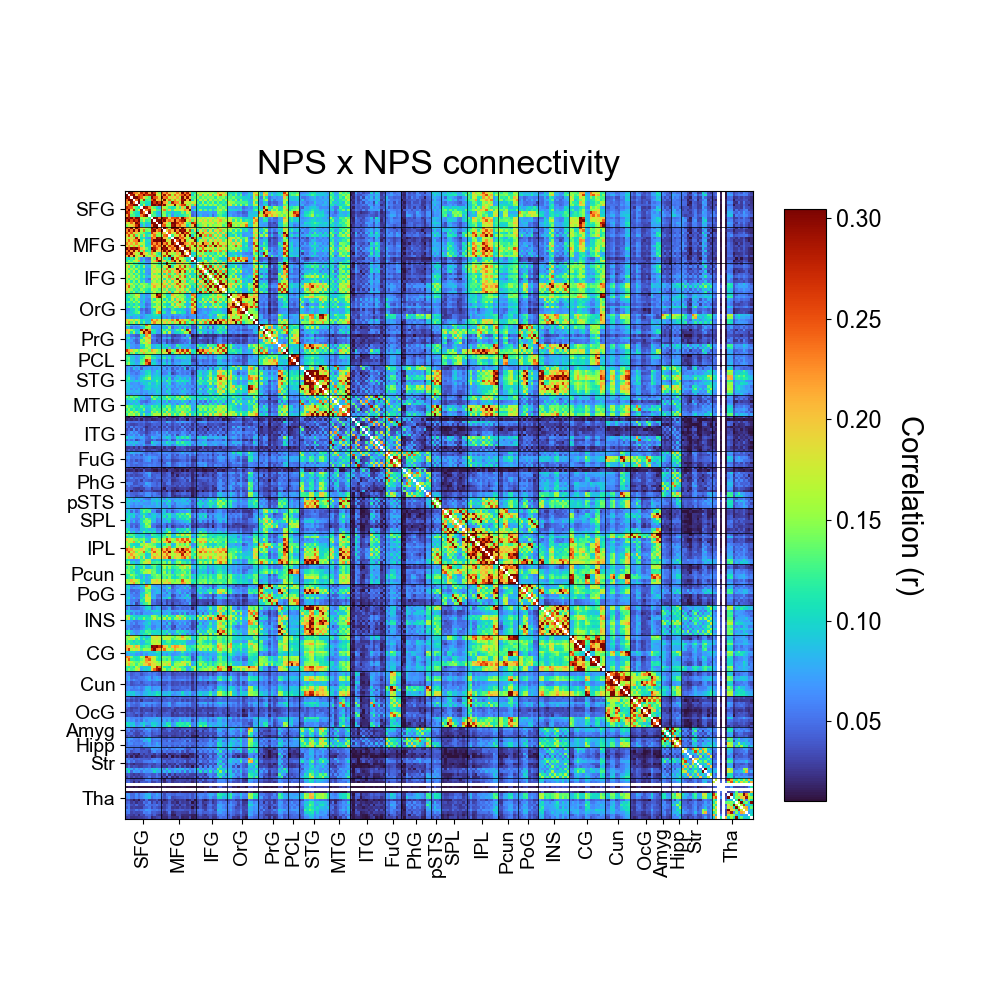
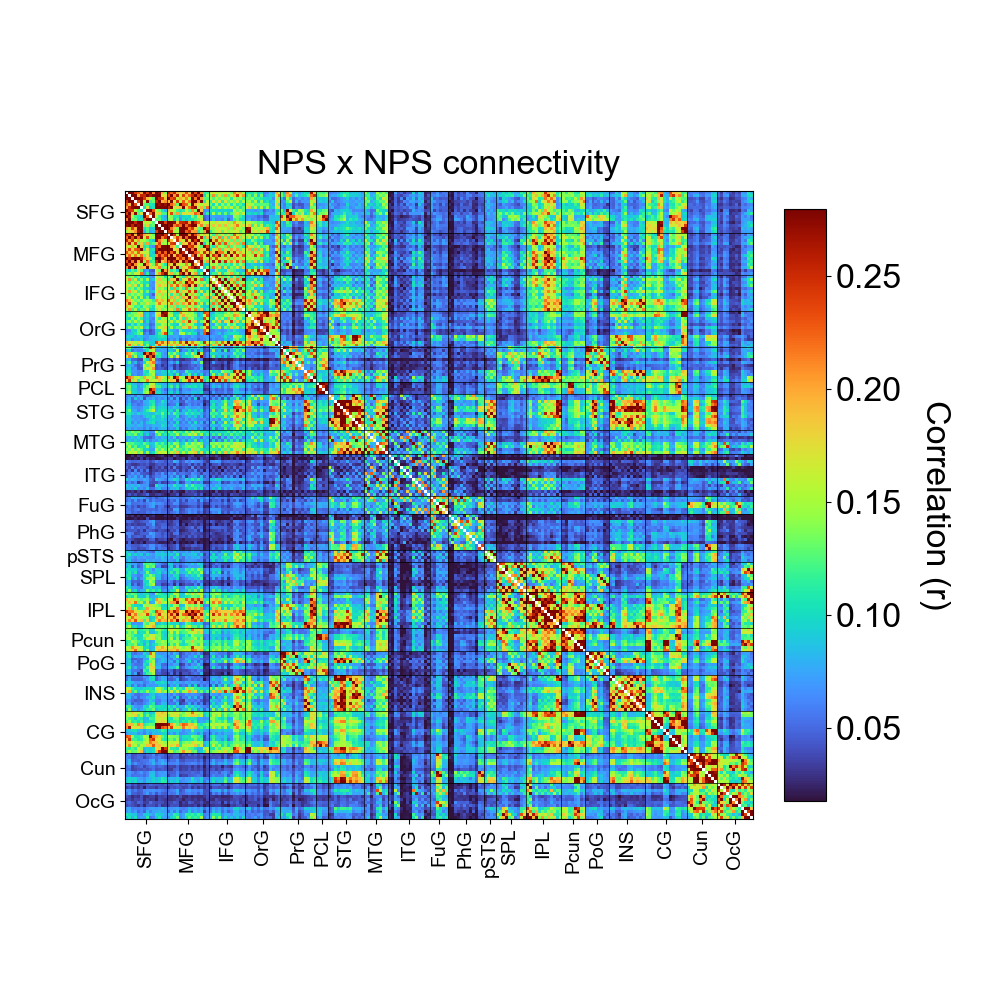
adjusting HCP vendor fig. soon to submit

diff --git a/HCP_gambling/HCP_vendor.py b/HCP_gambling/HCP_vendor.py
@@ -57,34 +57,88 @@ def bar_vendor(conn_highs, conn_lows, combine_regions, bilateral):
     df = pd.DataFrame({'FC': df['high_PA'].to_list() + df['low_PA'].to_list() +
                              df['high_VD'].to_list() + df['low_VD'].to_list(),
                        'PA_VD': ['PA'] * len(df) * 2 + ['VD'] * len(df) * 2,
-                       'high_low': (['high'] * len(df) + ['low'] * len(df)) * 2})
+                       'high_low': (['high'] * len(df) + ['low'] * len(df)) * 2,
+                       'sn': list(range(len(df))) * 4})
 
     plt.rcParams.update({'font.size': 21,
                          'font.sans-serif': 'Arial'})
-    g = sns.catplot(x='high_low', y='FC', hue='PA_VD', data=df,
-                        kind='bar',
-                        # errci=68,
-                        errorbar=('ci', 68),
-                        # errwidth=1.5,
-                        edgecolor='k',
-                        # capsize=0.1, height=4,
-                        alpha=0.7, linewidth=.7,#.7,
-                        errwidth=1.2,
-                        capsize=0.05,
-                        # palette=sns.color_palette()
-                        palette=['dodgerblue', 'red'],
-                        height=5, aspect=0.8
-                        )
-    plt.ylabel('Mean connectivity')
-    g._legend.remove()
-    g.set_xticklabels(['High PE', 'Low PE'])
-    plt.tight_layout()
-    plt.xlabel('')
+    # g = sns.catplot(x='high_low', y='FC', hue='PA_VD', data=df,
+    #                     kind='bar',
+    #                     # errci=68,
+    #                     errorbar=('ci', 68),
+    #                     # errwidth=1.5,
+    #                     edgecolor='k',
+    #                     # capsize=0.1, height=4,
+    #                     alpha=0.7, linewidth=.7,#.7,
+    #                     errwidth=1.2,
+    #                     capsize=0.05,
+    #                     # palette=sns.color_palette()
+    #                     palette=['dodgerblue', 'red'],
+    #                     height=5, aspect=0.8
+    #                     )
+    # plt.ylabel('Mean connectivity')
+    # g._legend.remove()
+    # g.set_xticklabels(['High PE', 'Low PE'])
+    # plt.tight_layout()
+    # plt.xlabel('')
+    # plt.plot([-.5, 1.5], [0, 0], 'k', linewidth=.5)
+    # plt.xlim(-.5, 1.5)
+    # fp = fr'result_pics/other/Study_1B_vendor.png'
+    # plt.savefig(fp, dpi=600)
+    # plt.show()
+
+    df_PA = df[df['PA_VD'] == 'PA']
+    df_PA['FC'] -= df_PA.groupby('sn')['FC'].transform('mean')
+
+    df_VD = df[df['PA_VD'] == 'VD']
+    df_VD['FC'] -= df_VD.groupby('sn')['FC'].transform('mean')
+
+    fig, axs = plt.subplots(1, 2, figsize=(6, 5))
+
+    # tips = sns.load_dataset('tips')
+    # sns.boxplot(x='day', y='total_bill', data=tips, ax=axs[0])
+    # sns.catplot(x='high_low', y='FC', hue='PA_VD', data=df_VD,
+    #             ax=axs[0])
+    plt.sca(axs[0])
+    g = sns.barplot(x='high_low', y='FC', hue='PA_VD', data=df_PA,
+                    errorbar=('ci', 68), edgecolor='k',
+                    alpha=0.7, linewidth=.7, errwidth=1.2,
+                    capsize=0.05, palette=['dodgerblue'],
+                    ax=axs[0], legend=False,
+                    )
     plt.plot([-.5, 1.5], [0, 0], 'k', linewidth=.5)
     plt.xlim(-.5, 1.5)
+    plt.ylim(-.023, .023)
+    g.set_xticklabels(['High\nPE', 'Low\nPE'])
+    plt.ylabel('Mean connectivity')
+    plt.xlabel('')
+    plt.gca().spines[['bottom', 'top', 'right']].set_visible(False)
+    plt.tick_params(axis='x', which='both', bottom=False, top=False)
+
+
+    plt.sca(axs[1])
+    g = sns.barplot(x='high_low', y='FC', hue='PA_VD', data=df_VD,
+                    errorbar=('ci', 68), edgecolor='k',
+                    alpha=0.7, linewidth=.7, errwidth=1.2,
+                    capsize=0.05, palette=['red'], #height=5,
+                    ax=axs[1], legend=False,
+                    )
+    plt.ylabel('')
+    g.set_xticklabels(['High\nPE', 'Low\nPE'])
+    plt.xlabel('')
+    plt.plot([-.5, 1.5], [0, 0], 'k', linewidth=.5)
+    plt.yticks([-.01, 0, .01])
+    plt.xlim(-.5, 1.5)
+    plt.ylim(-.0115, .0115)
+    plt.gca().spines[['bottom', 'top', 'right']].set_visible(False)
+    plt.tick_params(axis='x', which='both', bottom=False, top=False)
     fp = fr'result_pics/other/Study_1B_vendor.png'
-    plt.savefig(fp, dpi=600)
+    # plt.savefig(fp, dpi=600)
+    plt.tight_layout()
+
     plt.show()
+
+    quit()
 
 
 def get_sn_roi_ar(sn, lr, combine_regions=False, bilateral=False,
@@ -458,6 +512,18 @@ def test_vendor(combine_regions=False, bilateral=False, corr_z=True,
         # conn_lows /= ROI_expected[None]
 
     bar_vendor(conn_highs, conn_lows, combine_regions, bilateral)
+
+    overall = (conn_highs + conn_lows) / 2
+    print(f'{overall.shape=}')
+
+    plt.rcParams.update({'font.size': 16,
+                         'font.sans-serif': 'Arial'})
+    # M = np.nanmean(overall, axis=0)
+    # M_flat = M.flatten()
+    # plt.hist(M_flat, bins=100)
+    # plt.title('HCP FC histogram')
+    # plt.show()
+    # quit()
 
     dif = conn_highs - conn_lows
     M = np.nanmean(dif, axis=0)

diff --git a/connRSA/conn_x_RSA.py b/connRSA/conn_x_RSA.py
@@ -16,6 +16,7 @@ from networks.old.network_funcs import load_FC_for_Lifu
 # from old.network_funcs import load_FC_for_Lifu
 from org_sns import get_sns
 from utils import pickle_wrap
+import matplotlib
 
 import os
 os.chdir(r'C:\PycharmProjects\SchemeRep')
@@ -458,16 +459,24 @@ def get_plain_corr():
         corrs.append(sn_conn)
     return np.array(corrs).transpose((1, 0, 2, 3))
 
-def corr_RSA_conn(main_key='ITL', semantic=False):
+def corr_RSA_conn(main_key='Occipital', semantic=False):
     df_conn = prep_conn_corrs(main_key, ERS=False, semantic=semantic)
 
     df_rsa = get_RSA_betas(main_key, ctrl_within=False, get_local=False,
-                           semantic=semantic, big_voxelwise=True)
+                           semantic=True, big_voxelwise=True)
+
+    df_rsa_per = get_RSA_betas(main_key, ctrl_within=False, get_local=False,
+                           semantic=False, big_voxelwise=True)
+    df_rsa['beta1_per'] = df_rsa_per['beta1']
 
     df_rsa_local = get_RSA_betas(main_key, ctrl_within=False, get_local=True,
-                                 semantic=semantic)
+                                 semantic=True)
+
+    df_rsa_local_per = get_RSA_betas(main_key, ctrl_within=False, get_local=True,
+                                 semantic=False)
 
     df_rsa['local'] = df_rsa_local['beta1']
+    df_rsa['local_per'] = df_rsa_local_per['beta1']
     df = pd.merge(df_conn, df_rsa, on=['sn', 'fp'])
 
     df = df.dropna(subset=['local', 'beta1'])
@@ -478,7 +487,7 @@ def corr_RSA_conn(main_key='ITL', semantic=False):
 
     import statsmodels.formula.api as smf
 
-    formula = 'conn ~ beta1 + local'
+    formula = 'beta1 ~ conn'
     model = smf.ols(formula, data=df)
     results = model.fit()
     print(results.summary())
@@ -489,9 +498,34 @@ def corr_RSA_conn(main_key='ITL', semantic=False):
 
     # df = df[df['conn'].abs() < 3]
     # df = df[df['beta1'].abs() < 3]
+    plt.rcParams.update({'font.sans-serif': 'Arial',
+                         'font.size': 14,
+                         'figure.figsize': (5, 4),
+                         'mathtext.default': 'regular' })
+
     r, p = stats.spearmanr(df['conn'], df['beta1'])
-    plt.title(f'{main_key=}, {r=:.3f}, {p=:.4f}')
-    plt.scatter(df['conn'], df['beta1'])
+    # plt.title(f'{main_key=}, {r=:.3f}, {p=:.4f}')
+    plt.scatter(df['conn'], df['beta1'],
+                facecolors=('dodgerblue', 0.5),
+                edgecolors=(0, 0, 0, 0.5),
+                )
+    plt.xlabel('Mean temporal lobe\n$RSM_{local}$-$RSM_{local}$ correlation')
+    plt.ylabel('Temporal lobe distributed\nsemantic RSA effect')
+
+    low = np.nanquantile(df['conn'], 0.00)
+    high = np.nanquantile(df['conn'], 1.0)
+
+    df_pred = pd.DataFrame({'conn': np.linspace(low, high, 1000),})
+    pred = results.predict(exog=df_pred)
+    plt.plot(df_pred['conn'], pred, color='k',
+             linestyle='--', alpha=.8)
+
+    matplotlib.colors.colorConverter.to_rgba('mediumseagreen', alpha=.5)
+    plt.gca().spines[['right', 'top']].set_visible(False)
+    plt.tight_layout()
+    semantic_str = '_semantic' if semantic else '_perceptual'
+    fp_fig = fr'result_pics/connRSA/RSM_RSM_x_RSA_{main_key}{semantic_str}.png'
+    plt.savefig(fp_fig, dpi=600)
     plt.show()
     df.to_csv('df_conn_x_RSA.csv', index=False)
     return

diff --git a/connRSA/information_connectivity.py b/connRSA/information_connectivity.py
@@ -753,11 +753,22 @@ def run_IC_analysis(ERS=True, regress_FC=True):
     fn_out = r'NPS' if ERS else 'RSM'
     fn_out += '_regressed' if regress_FC else ''
     fn_out += '.png'
-    fp_fig = fr'connRSA/FC_figs/{fn_out}'
+    fp_fig = fr'result_pics/connRSA/{fn_out}'
+
+
+    M = M[:210, :210]
+    if len(atlas['ticks']) == 24:
+        atlas['ticks'] = atlas['ticks'][:-4]
+        atlas['tick_labels'] = atlas['tick_labels'][:-4]
+        atlas['tick_lows'] = atlas['tick_lows'][:-4]
+
+    vmax = np.nanquantile(M, .98)
+    vmin = np.nanquantile(M, .02)
 
     plot_connectivity(M, atlas['ticks'], atlas['tick_labels'],
-                      atlas['tick_lows'], title=title, tile=.01,
-                      no_avg=True, cbar_label='Correlation (r)', fp=fp_fig)
+                      atlas['tick_lows'], title=title, vmin=vmin, vmax=vmax,
+                      no_avg=True, cbar_label='Correlation (r)', fp=fp_fig,
+                      adjust_HC_AMY=False, dontoverride=True)
 
 
 def plot_FC_mat(drop_con=False, four_tasks='7'):
@@ -789,14 +800,33 @@ def plot_FC_mat(drop_con=False, four_tasks='7'):
         corrs.append(sn_conn)
 
     corrs = np.nanmean(corrs, axis=0)
+
+    plt.rcParams.update({'font.size': 16,
+                         'font.sans-serif': 'Arial'})
     M = np.nanmean(corrs, axis=0)
+    M_flat = M.flatten()
+    plt.hist(M_flat, bins=100)
+    plt.title('SchemeRep FC histogram')
+    plt.show()
+    quit()
+
     atlas = get_atlas(lifu_labels=False)
     fn_out = r'basic_FC.png'
-    fp_fig = fr'connRSA/FC_figs/{fn_out}'
+    fp_fig = fr'result_pics/connRSA/{fn_out}'
     plot_network_M(corrs, None, sns, fn_out)
 
+    M = M[:210, :210]
+    if len(atlas['ticks']) == 24:
+        atlas['ticks'] = atlas['ticks'][:-4]
+        atlas['tick_labels'] = atlas['tick_labels'][:-4]
+        atlas['tick_lows'] = atlas['tick_lows'][:-4]
+
+    vmax = np.nanquantile(M, .98)
+    vmin = np.nanquantile(M, .02)
+
     plot_connectivity(M, atlas['ticks'], atlas['tick_labels'],
-                      atlas['tick_lows'],
+                      atlas['tick_lows'], vmin=vmin, vmax=vmax, dontoverride=True,
+                      adjust_HC_AMY=False,
                       title='Functional connectivity', fp=fp_fig,
                       no_avg=True, cbar_label='Correlation (r)',)
 
@@ -805,11 +835,8 @@ def plot_FC_mat(drop_con=False, four_tasks='7'):
 
 
 if __name__ == '__main__':
-    # plot_FC_mat(drop_con=False, four_tasks='7')
-    # quit()
-
     plt.rcParams.update({'font.sans-serif': 'Arial'})
-
-    run_IC_analysis(ERS=True, regress_FC=True)
-    run_IC_analysis(ERS=False, regress_FC=True)
+    plot_FC_mat(drop_con=False, four_tasks='7')
+    run_IC_analysis(ERS=True, regress_FC=False)
+    run_IC_analysis(ERS=False, regress_FC=False)
     # plot_FC_mat()

diff --git a/connRSA/plot_Fig5_Fig6_bars.py b/connRSA/plot_Fig5_Fig6_bars.py
@@ -580,9 +580,9 @@ import sys
 sys.setrecursionlimit(10000)
 
 if __name__ == '__main__':
-    # plot_Figure5_bars()
+    plot_Figure5_bars()
     # interaction_within_region()
-    plot_Figure6_bars('ITL')
+    # plot_Figure6_bars('IT')
     # plot_Figure6_bars('Occipital')
 
     # quit()
